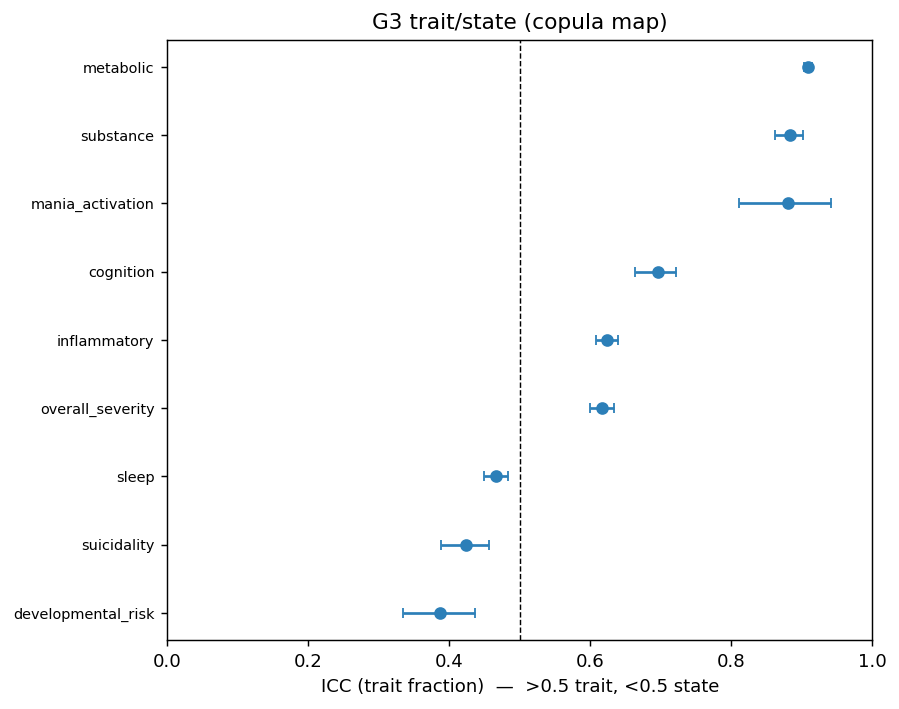
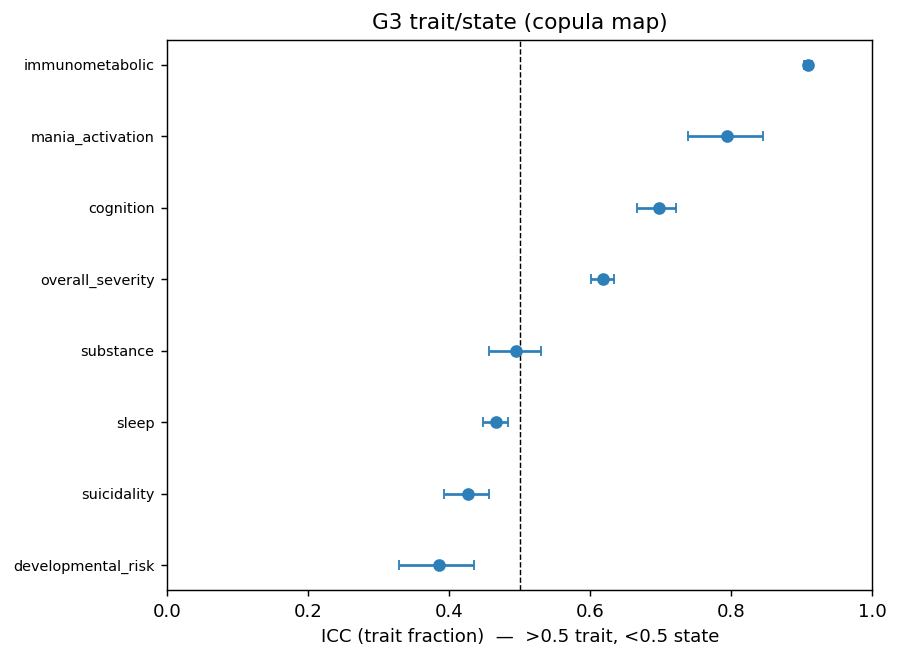
m3: temporal coherence replays on the 8-factor map — G1 all-invariant, biology durable, A=5 persists
Full M3 on the 8-factor M1/M2 objects (weighted_8d/hs_s5_merged_xc, A=5):
- G1: 4/4 backbone axes invariant (severity/cognition/immunometabolic/sleep), min phi 0.987. The merge
  RESOLVES the native weak spot: inflammatory was partial; immunometabolic is now fully invariant.
- G3 trait/state: immunometabolic ICC 0.91 (the single most durable axis, = native metabolic 0.91) +
  cognition 0.70 trait; severity 0.62 trait-by-rank (pop slides -0.46, suicidality -0.84); developmental
  state, mania uninformative (data-limited). Biology durable, symptoms slide -> clinical logic unchanged.
- G4 (A=5): archetype weights persist (Arm-B cosine 0.81); dominant-agree 0.40 (more argmax churn than A=4,
  expected); spine-moves-not-biology 0.234 > biology-moves-not-spine 0.163. Honest difference: the G3<->G4
  cross-route synthesis weakens to rho 0.07 (A=5 churn + orthogonal substance ICC drops to 0.49).

Docs: TEMPORAL_OOP_FINDINGS.md (full rewrite to 8-factor), TEMPORAL_MODEL.md (8-factor methods note). IPW
weights regenerated for M4. Hand-off consolidate/patient_panel.parquet 16,241 x 92 (A=5 memberships).

diff --git a/docs/TEMPORAL_OOP_FINDINGS.md b/docs/TEMPORAL_OOP_FINDINGS.md
@@ -1,103 +1,104 @@
 # M3 temporal coherence on the Gaussian-copula objects — findings
 
-> **Canonical M3 findings record for the copula rerun.** Reworks the FACE M3 temporal-coherence layer on the
-> copula M1/M2 objects (continuum: continuous coordinates + A=4 archetype simplex), parallel to native
-> `scripts/30-37`. Engine [`src/face/temporal/temporal_model_oop.py`](../src/face/temporal/temporal_model_oop.py)
-> (wraps the proven kernels — `invariance`/`variance`/`persistence`/`membership` + the strata scoring kernels —
-> with **no edits** to native M3); driver [`notebooks/run_temporal_model_oop.py`](../notebooks/run_temporal_model_oop.py).
-> Pending PI sign-off.
-> Updated 2026-06-22.
+> **Canonical M3 findings record (8-factor map, 2026-06-27; pending PI sign-off).** Reworks the FACE M3
+> temporal-coherence layer on the **8-factor** copula M1/M2 objects (continuum: continuous coordinates +
+> **A = 5** archetype simplex; immunometabolic merge + substance pinned orthogonal). Engine
+> [`src/face/temporal/temporal_model_oop.py`](../src/face/temporal/temporal_model_oop.py) (wraps the proven
+> `invariance`/`variance`/`persistence`/`membership` kernels + the strata scoring kernels); driver
+> [`notebooks/run_temporal_model_oop.py`](../notebooks/run_temporal_model_oop.py). Map consumed:
+> `copula/weighted_8d/hs_s5_merged_xc`.
 
 ## What this is
 
-M2 is a continuum on the copula map; M3 asks whether the copula map + the A=4 archetypes **persist over
+M2 is a continuum on the 8-factor copula map; M3 asks whether the map + the **A = 5** archetypes **persist over
 V0→V1→V2**: does the measurement hold (G1), is biology trait while symptoms are state (G3), do the archetypes
 keep their identity (G4)? It is a **consumer** of the fixed copula M1/M2 — V0 coordinates reused from the M2
-object, **V1/V2 scored under the fixed copula M1** (the one new component), then the established temporal
-kernels run with `A=4`. No re-discovery, no imputation.
-
-**The new component — scoring V1/V2 under the fixed copula M1.** Native M3 freezes the V0 *parametric*
-standardization; the copula M1 uses the frozen rank-INT map `z = Φ⁻¹(F_j(y))` **and** residualizes covariates.
-So a follow-up score is: (1) orient + `copula_forward` each gaussianized cell onto the V0 z-scale via the
-frozen `CoreData.copula[item]` map; (2) apply the **frozen-V0 covariate residualization** (age-spline+sex+edu+
-site FWL) with the visit's covariates; (3) project onto the fixed copula Λ/Φ/σ (continuous:
-`conditional_gaussian_draws`; explicit: `project_explicit_full_n`); (4) project onto the A=4 archetypes.
-**Validated:** scoring V0 through this path reproduces the M2 copula coordinates at **Pearson r = 0.993–1.000**
-across the 6 continuous axes — V0/V1/V2 live on the same scale. Panel: **16,241 rows** (V0 9,013 · V1 4,270 ·
-V2 2,958), all 9 axes 100% finite at every visit. Full run 20 min, converged.
+object, **V1/V2 scored under the fixed copula M1**, then the established temporal kernels. No re-discovery on
+follow-up. **The story replays — and the merge improves one thing (G1).**
 
 ## Result 1 — G1: the measurement holds (all backbone axes temporally invariant)
 
-Re-fitting the simple-structure backbone per visit (scale-invariant by design) and Tucker-φ'ing the primary
-loadings vs V0: every backbone axis is **invariant** (φ ≥ 0.95):
+Re-fitting the simple-structure backbone per visit (scale-invariant by design) on the **8-factor backbone**
+(severity + cognition + **immunometabolic** + sleep) and Tucker-φ'ing the primary loadings vs V0: **every
+backbone axis is invariant (φ ≥ 0.95), 4/4:**
 
 | axis | min φ (worst follow-up) | license |
 |---|---|---|
 | sleep | 0.996 | invariant |
 | cognition | 0.995 | invariant |
 | overall_severity | 0.991 | invariant |
-| metabolic | 0.988 | invariant |
-| inflammatory | 0.974 | invariant |
+| **immunometabolic** | **0.987** | **invariant** |
 
-Notably **inflammatory is invariant here (0.974)** — it was only *partial* on the native map. The construct is
-measured consistently over time, so patient *change* on these axes is interpretable. (The explicit axes —
-suicidality/developmental/substance — are not part of the continuous backbone test; mania is data-limited.)
+**The merge resolves the native map's weak spot:** inflammatory was only *partial* on the native map; folded
+into immunometabolic it is now **fully invariant (0.987)**. The biology construct is measured consistently over
+time, so patient *change* on it is interpretable. (The explicit axes — suicidality/developmental/substance —
+are not part of the continuous backbone test; mania is data-limited.)
 
 ## Result 2 — G3: biology is trait, symptoms are state (the headline, replayed)
 
 Per-axis measurement-error variance decomposition (ICC = trait fraction; the M1 per-patient SD is plugged, so
-ICC isolates genuine between-patient *trait* variance from measurement noise + within-person *state*):
+ICC isolates between-patient *trait* variance from measurement noise + within-person *state*):
 
-| axis | ICC [94% HDI] | verdict |
-|---|---|---|
-| **metabolic** | 0.91 [0.90, 0.91] | **trait** |
-| substance | 0.88 [0.86, 0.90] | trait |
-| cognition | 0.70 [0.66, 0.72] | trait |
-| inflammatory | 0.62 [0.61, 0.64] | trait |
-| overall_severity | 0.62 [0.60, 0.63] | trait (by rank) |
-| sleep | 0.47 [0.45, 0.48] | mixed |
-| suicidality | 0.42 [0.39, 0.46] | mixed |
-| developmental_risk | 0.39 [0.34, 0.44] | state |
-| mania_activation | 0.88 [0.81, 0.94] | **uninformative** (data-limited) |
+| axis | ICC [94% HDI] | pop slide V0→V2 | verdict |
+|---|---|---|---|
+| **immunometabolic** | **0.91 [0.90, 0.91]** | +0.04 | **trait** (the durable biology anchor) |
+| cognition | 0.70 [0.67, 0.72] | −0.14 | **trait** |
+| overall_severity | 0.62 [0.60, 0.63] | −0.46 | **trait (by rank)** |
+| substance | 0.49 [0.46, 0.53] | −0.17 | mixed |
+| sleep | 0.47 [0.45, 0.48] | −0.09 | mixed |
+| suicidality | 0.43 [0.39, 0.46] | −0.84 | mixed |
+| developmental_risk | 0.39 [0.33, 0.44] | −0.13 | state |
+| mania_activation | 0.79 [0.74, 0.85] | −0.19 | **uninformative** (data-limited) |
 
-**The durable biology axes (metabolic/cognition/inflammatory) are trait; the moving symptom axes
-(developmental, suicidality, sleep) are state** — reproducing the native M3 headline on the better map.
-**Severity is trait *by rank*** (ICC 0.62 — patients keep their relative position) **while the population
-improves** (pop_slide −0.46 over V0→V2) — the same trait-by-rank / slides-at-population nuance as native.
-Clinical logic unchanged: *stratify on the durable biology, monitor the moving symptoms.*
+**The durable biology is trait and is the single most durable axis (immunometabolic ICC 0.91 — identical to the
+native metabolic 0.91), with cognition (0.70) trait beside it; the moving symptom axes (developmental,
+suicidality, sleep) are state/mixed.** Severity is **trait *by rank*** (ICC 0.62 — patients keep their relative
+position) **while the population improves** (pop_slide −0.46; suicidality slides hardest, −0.84). Clinical logic
+unchanged: *stratify on the durable biology, monitor the moving symptoms.*
 
-## Result 3 — G4: archetype identity persists (geometry agrees with the variance route)
+## Result 3 — G4: archetype identity persists (continuum-honest)
 
-Over V0→V2 completers (n = 2,958): the **Arm-B (⊥G) archetype weights persist** (weight-vector cosine median
-**0.90**, q10 0.70); dominant-archetype agreement is 0.49 (κ 0.30) — the expected *churn of the argmax on a
-continuum* (central patients flip label by geometry while their weight vector barely moves). Severity-spine
-trajectories are **58% stable / 35% drifting / 7% oscillating**. The G3⟷G4 synthesis (Spearman of per-axis
-reliable-change-rate vs ICC) is **ρ = −0.27** — trait axes change less, state axes more, the right direction
-(weak at n = 9 axes, p = 0.49). So the variance route (G3) and the geometric route (G4) agree: biology holds,
-symptoms move, archetype identity persists.
+Over V0→V2 completers (n = 2,958), on the **A = 5** simplex:
+
+* **Archetype weights persist** — Arm-B (⊥G) weight-vector cosine median **0.81** (q10 0.49). Dominant-archetype
+  agreement is **0.40** (κ 0.19) — *more argmax churn than the A = 4 native (0.49)*, which is **expected**: five
+  corners create more argmax boundaries, so central patients flip label by geometry while their weight vector
+  barely moves. The persistence lives in the **weights** (cosine 0.81), not the hard label.
+* **Spine moves while biology holds** — decomposing each patient's Δx into the severity spine vs the biology
+  corner (immunometabolic + cognition): **spine-moves-not-biology 0.234 > biology-moves-not-spine 0.163**.
+  Severity slides more than biology, consistent with G3. (Stable 58% / drifting 35% / oscillating 7%.)
+
+**Honest difference from native:** the G3⟷G4 *cross-route synthesis* (Spearman of per-axis reliable-change-rate
+vs ICC) is **ρ = 0.07 (p = 0.87)** — near zero, where the native was a weak-but-right −0.27. The two routes no
+longer clearly co-rank on the 8-factor map (the merge + A = 5 churn + the data-limited mania/orthogonal
+substance muddy a 8-point correlation). G3 (the error-corrected ICC) remains the clean headline; read G4 as
+geometric persistence of identity (cosine 0.81), not as an independent confirmation of the variance ranks.
 
 ## Honest caveats
 
-* **G4 reliable-change rate is measurement-precision-confounded.** Metabolic is measured very precisely (tight
-  posterior SD), so even tiny real shifts clear the reliable-change threshold — its raw "movement" rate
-  overstates instability. The **error-corrected G3 ICC** (which removes measurement variance) is the cleaner
-  trait/state signal, and it is unambiguous (metabolic ICC 0.91 = trait). Read G3 as the headline, G4 as the
-  geometric corroboration.
-* **Mania is uninformative** (ICC high but signal-ratio < 0.5 — only 2 indicators, partial for all patients);
-  its trait/state verdict is not load-bearing. Same data limit as native.
-* **Developmental scores state** here; as on the native map this partly reflects CTQ recall-noise (the
-  construct is trait by design) — interpret with care.
-* **V0 reused from the M2 posterior, V1/V2 projected** (the native asymmetry); the V0 reproduction at r ≈ 0.99
-  bounds the inconsistency. Internal/temporal-coherence validity only.
+* **G3 is the headline, G4 the geometric corroboration.** G4 reliable-change is measurement-precision-confounded
+  (precisely-measured immunometabolic clears the change threshold on tiny shifts), so read the error-corrected
+  G3 ICC for trait/state; it is unambiguous (immunometabolic 0.91 = trait).
+* **Substance ICC dropped vs the 9-factor map** (0.49 mixed, was 0.88 trait). Expected: substance is now pinned
+  **orthogonal** (no Φ borrowing) and is thin (2 SUD binaries) — its coordinate is noisier, so less of its
+  variance reads as durable trait. Honest consequence of the cleaner parameterization, not a regression.
+* **Mania is uninformative** (ICC high but signal-ratio < 0.5 — 2 indicators); its verdict is not load-bearing.
+* **Developmental scores state** — as on the native map this partly reflects CTQ recall-noise (the construct is
+  trait by design); interpret with care.
+* **V0 reused from the M2 posterior, V1/V2 projected** (the native asymmetry); internal/temporal-coherence
+  validity only.
 
 ## Hand-off
 
 `results/face/temporal_oop/`: `invariance/{license,congruence}.csv`, `trait_state/trait_state.csv`,
-`persistence/{reliable_change.csv, persistence.json}`, `attrition/ipw_weights.parquet`, and the M4-contract
-hand-off `consolidate/{patient_panel.parquet (16,241 × 95: panel coords + A=4 memberships + G1 license +
-retention/IPW), panel_draws.npz}`. Figure: `docs/figures/temporal_oop/trait_state_icc.png`. Reproduce:
+`persistence/{reliable_change.csv, persistence.json}`, `attrition/ipw_weights.parquet` (feeds M4 + repbench),
+and the M4-contract hand-off `consolidate/{patient_panel.parquet (16,241 × 92: panel coords + **A = 5**
+memberships + G1 license + retention/IPW), panel_draws.npz}`. Figure: `docs/figures/temporal_oop/
+trait_state_icc.png`. Reproduce:
 `PYTHONPATH=$PWD/src HDF5_USE_FILE_LOCKING=FALSE python notebooks/run_temporal_model_oop.py --mode full`.
 
-**Verdict: the copula map + the A=4 archetypes are temporally coherent** — the measurement holds, biology is
-durable (trait) while symptoms slide (state), and archetype identity persists — on the same baseline cohort,
-reproducing native M3 with one improvement (inflammatory now invariant) and the honest caveats above.
+**Verdict: the 8-factor copula map + the A = 5 archetypes are temporally coherent** — the measurement holds
+(4/4 invariant, immunometabolic now fully invariant), biology is durable (immunometabolic ICC 0.91) while
+symptoms slide, and archetype identity persists in the weights (cosine 0.81) — reproducing the native M3
+headline on the better map, with the honest caveats above (softer G3⟷G4 cross-route agreement; substance now
+orthogonal).

diff --git a/docs/TEMPORAL_MODEL.md b/docs/TEMPORAL_MODEL.md
@@ -11,6 +11,18 @@
 > *Status: PLAN — locked at the M3.0 discussion gate, pending PI sign-off. M3.0 (inventory) implemented;
 > stages 31–37 held at the gate. Updated 2026-06-10 (the geometric-prediction framing §1.4, Arm-B
 > persistence, and the no-completeness-selection rule folded in at the gate).*
+>
+> **8-factor rebuild note (2026-06-27; pending PI sign-off).** The M3 method below is unchanged, but it is now
+> run on the **8-factor** M1/M2 objects (`copula/weighted_8d/hs_s5_merged_xc`; immunometabolic merge + 3 cross-
+> loadings + substance pinned orthogonal) with the **A = 5** archetype simplex. Engine changes were mechanical
+> repoints (`CANON` 8-factor; `DURABLE = {cognition, immunometabolic}`; `A = 5`; the G1 invariance backbone uses
+> `{severity, cognition, immunometabolic, sleep}` under the folded matrix). Result **replays** with one
+> improvement and one honest difference: **G1** all 4 backbone axes invariant — *immunometabolic now fully
+> invariant where native inflammatory was only partial*; **G3** biology durable (immunometabolic ICC 0.91,
+> cognition 0.70) / symptoms state, severity trait-by-rank with population improvement; **G4** archetype weights
+> persist (cosine 0.81) and the spine moves while biology holds — but the G3⟷G4 *cross-route* synthesis weakens
+> to ρ ≈ 0.07 (A = 5 argmax churn; orthogonal substance ICC drops to 0.49). Findings:
+> [TEMPORAL_OOP_FINDINGS.md](TEMPORAL_OOP_FINDINGS.md).
 
 ---
 
